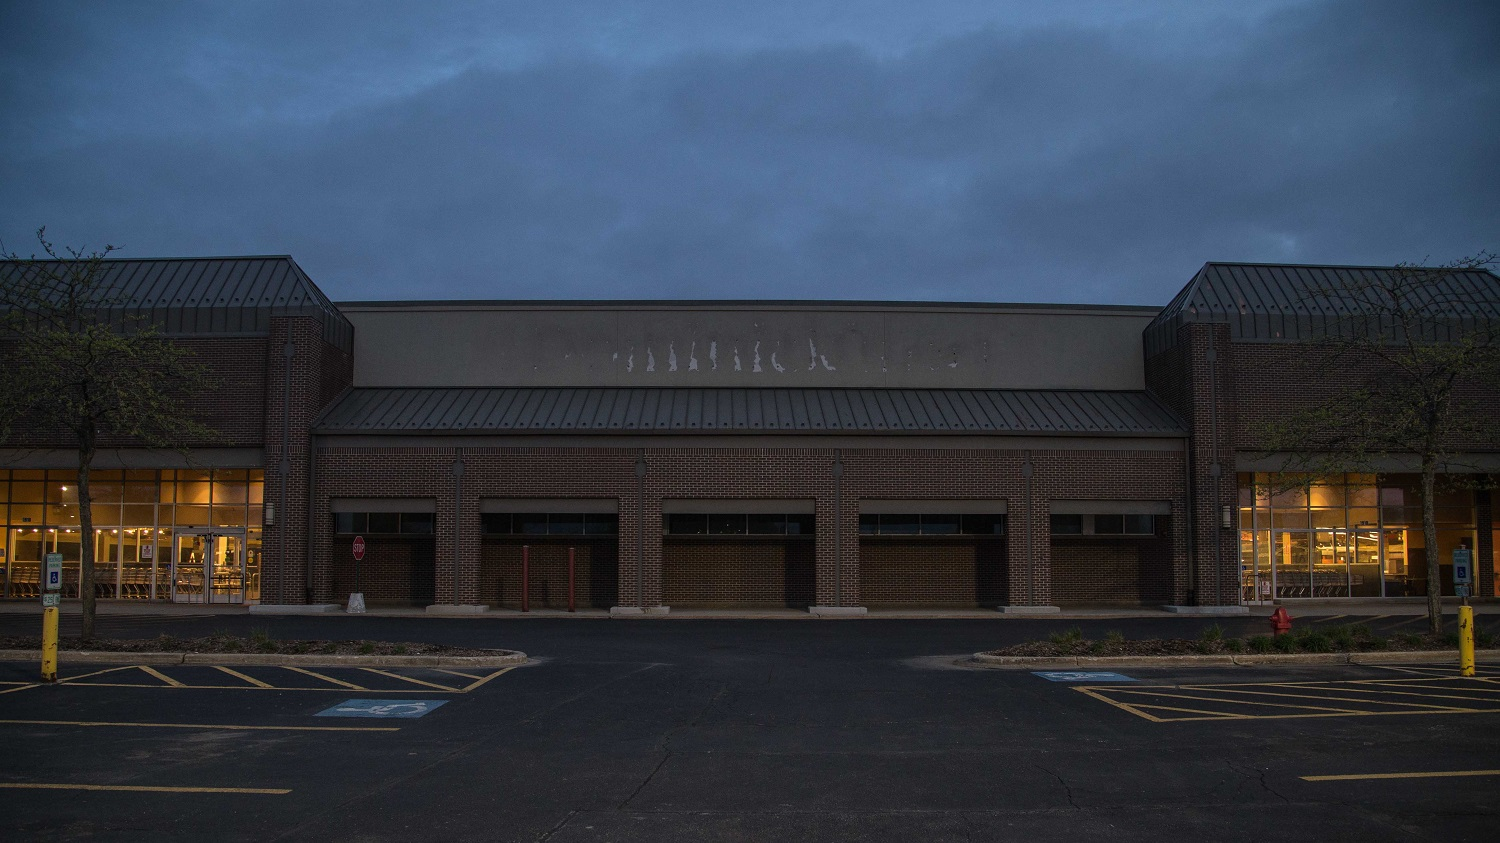
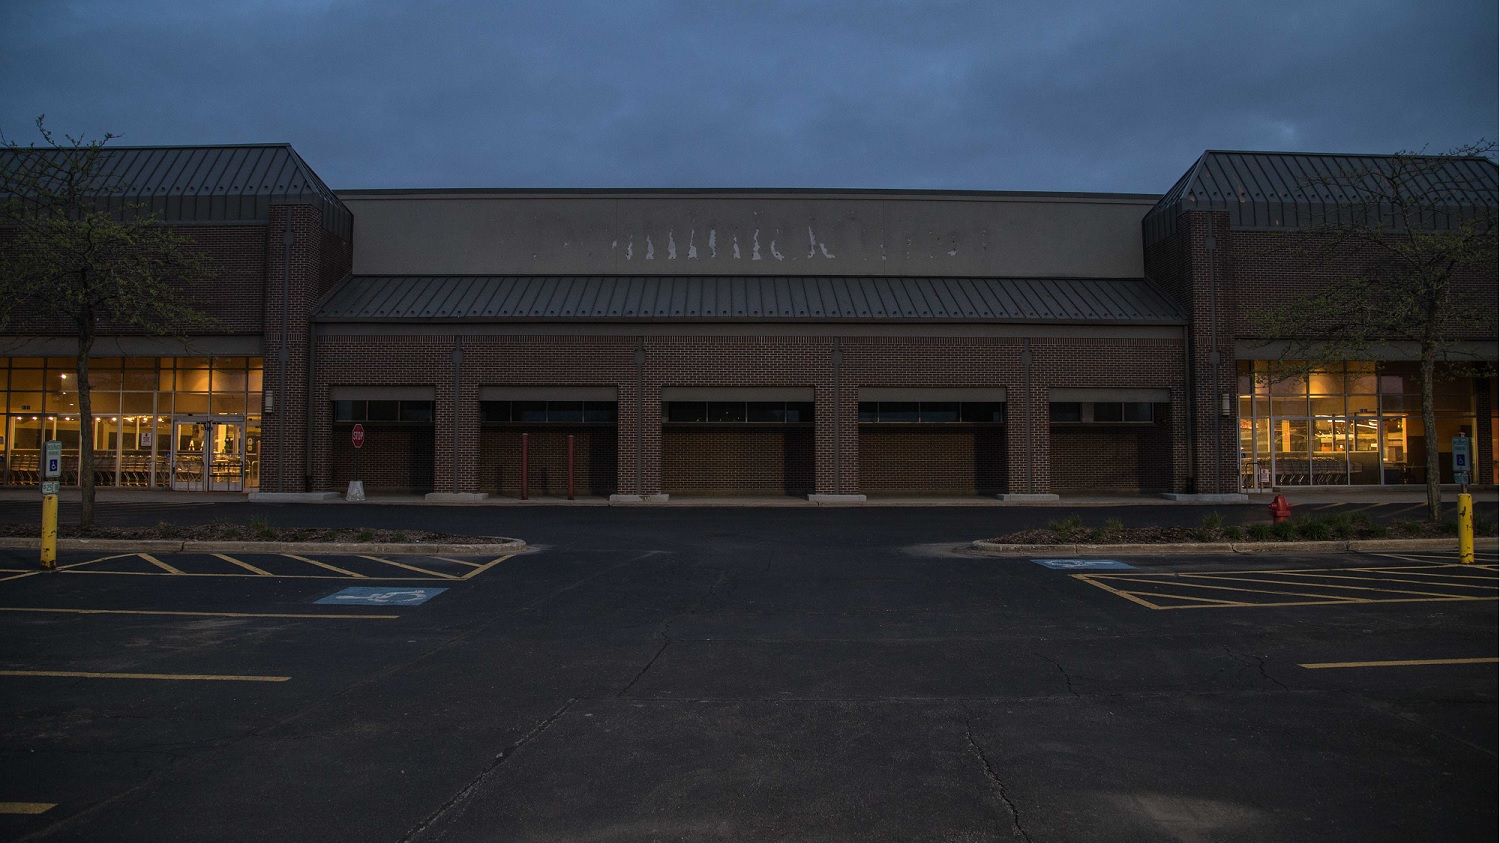
Changed the image around to better fit the screen

diff --git a/website/style.css b/website/style.css
@@ -9,7 +9,7 @@ body {
 #titlespacer {
 	width:100%;
 	position:relative;
-	padding-top:43%;
+	padding-top:35%;
 	float:left;
 }
 
